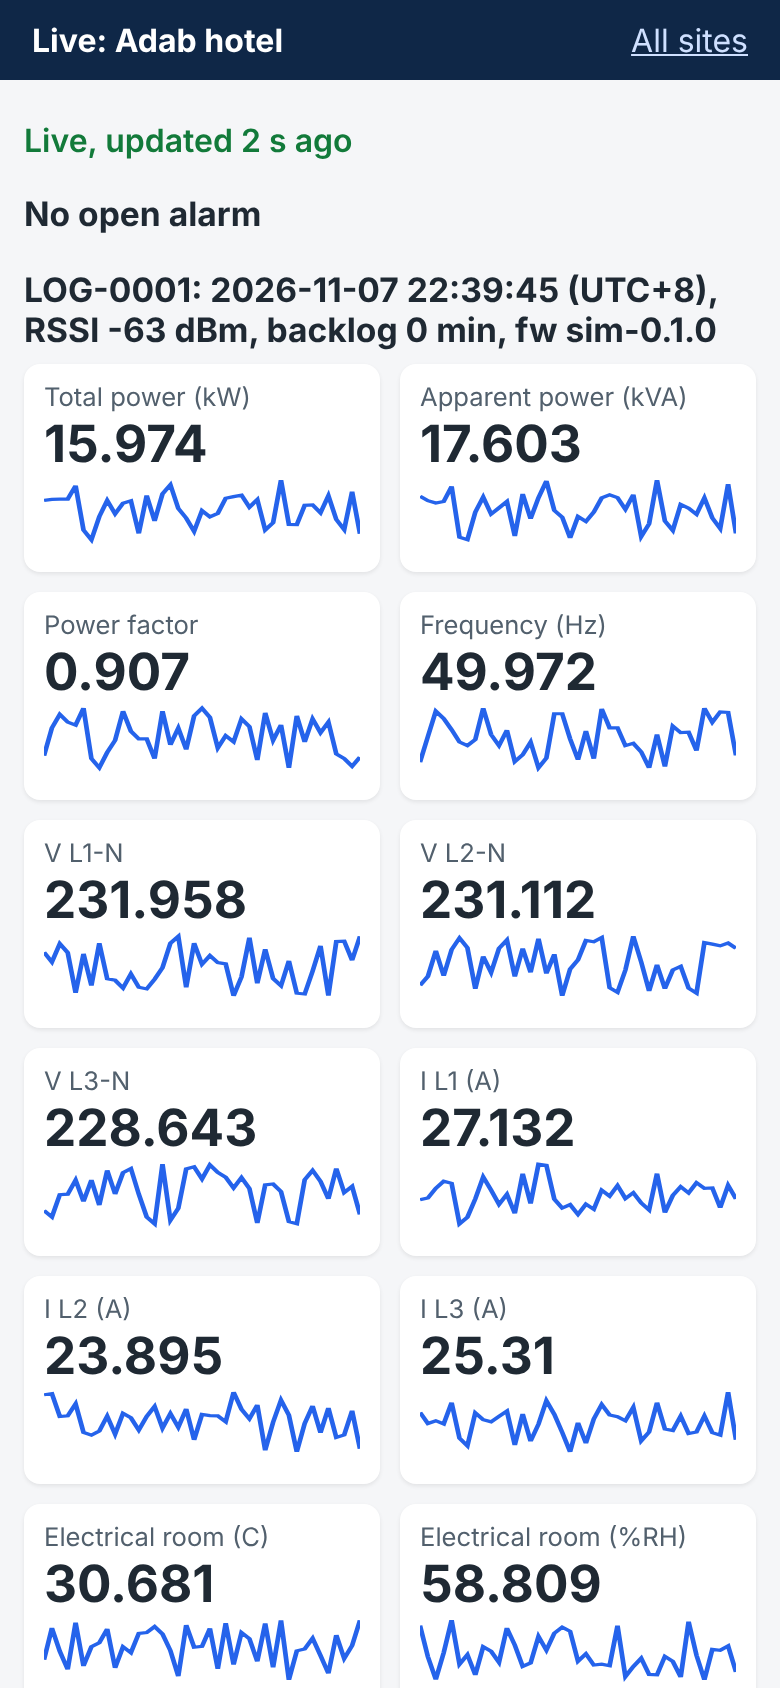
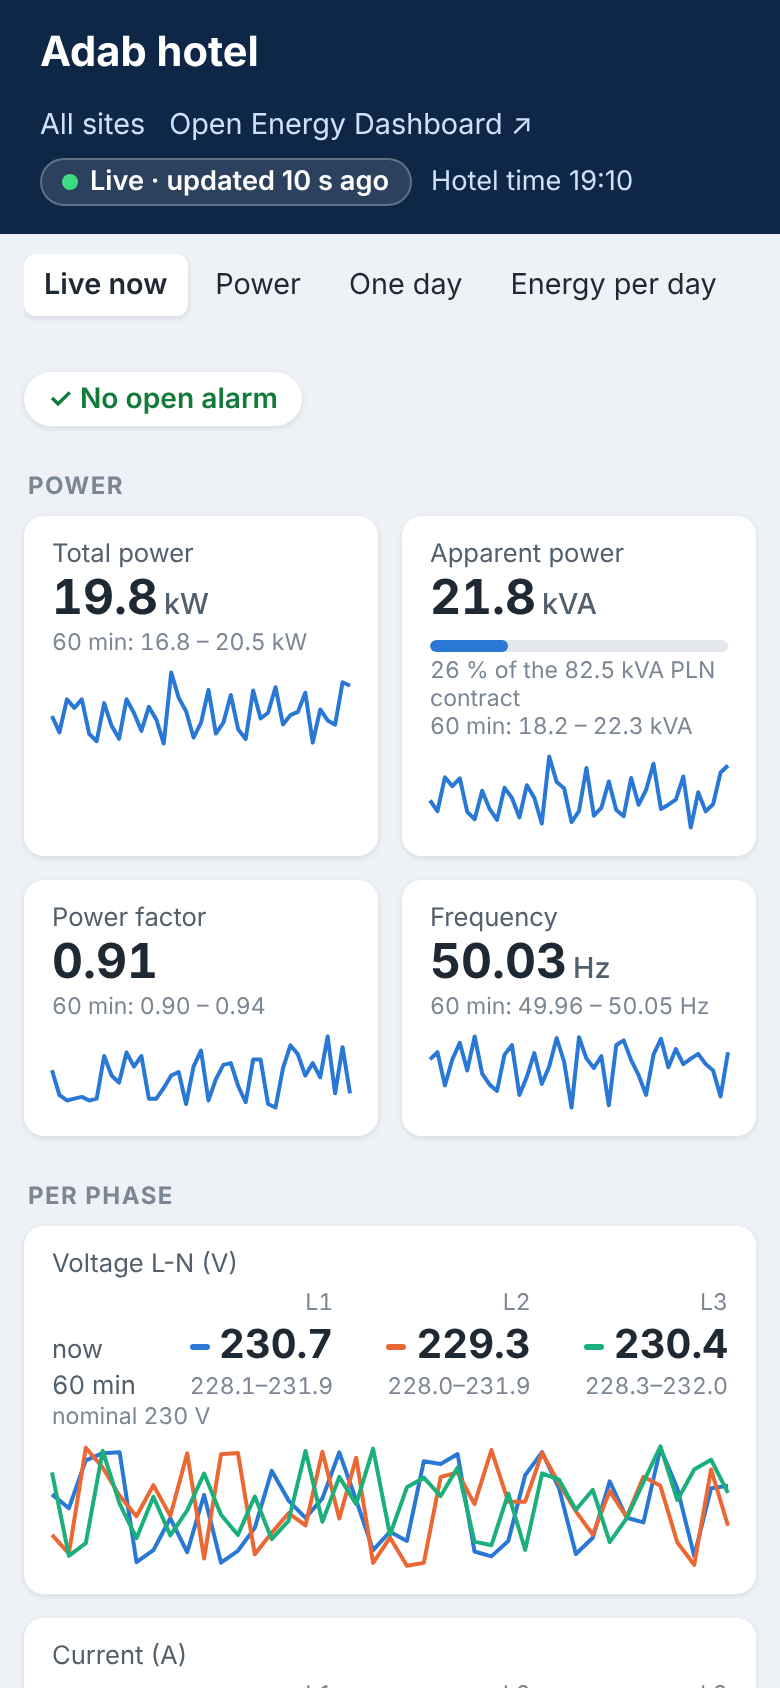
Dashboard mockup: screenshots of the built site page and its history pages
Claude-Session: https://claude.ai/code/session_01EskjDPiUNmX87ga9ESNCa4

diff --git a/docs/mockup/index.html b/docs/mockup/index.html
@@ -224,10 +224,25 @@ const S = [
      <code>site.json</code> and can change without code. Readable on a phone (right).
      <ul><li>The log here shows the simulated test events: a voltage dip on L2 (A26) with 6 minutes of undervoltage (A05) and the backlog warning while 14 days of records were uploaded (A16).</li>
      <li>Screenshot of the real page <code>server/app/live.html</code> served by the local ingest service, fed by the simulated logger.</li>
-     <li><b>Approved 8 November 2026 as the design of <code>/live/adab/</code></b>; the page now in <code>server/app/live.html</code> is shown here.
+     <li><b>Approved 8 November 2026 and built</b> in <code>server/app/live.html</code>, with a side menu for the history pages (next group).
        Only the time of the last push to OED is still missing (the push service is not written yet).</li></ul>`,
    html: () => `<div class="pair"><div><img class="shot" src="img/live-adab.png" alt="Live page of Adab hotel"></div>
      <div><div class="phone"><img src="img/live-adab-phone.png" alt="Live page on a phone"></div><div class="cap">Same page on a phone (390 px wide)</div></div></div>`},
+  {grp: 'Site page history (built)', id: 'site-power', name: 'Power', url: '/live/adab/#power',
+   note: `<b>Built 8 November 2026</b> in <code>server/app/live.html</code> (side menu of the site page), from the site's day files. kW, hour by hour, with the highest 15-second sample. 7, 14 or 31 days.`,
+   html: () => `<img class="shot" src="img/site-power.png" alt="Power">`},
+  {grp: 'Site page history (built)', id: 'site-day', name: 'One day', url: '/live/adab/#day',
+   note: `<b>Built 8 November 2026</b> in <code>server/app/live.html</code> (side menu of the site page), from the site's day files. The 1-minute power of one hotel day, with the day before and after.`,
+   html: () => `<img class="shot" src="img/site-day.png" alt="One day">`},
+  {grp: 'Site page history (built)', id: 'site-energy', name: 'Energy per day', url: '/live/adab/#energy',
+   note: `<b>Built 8 November 2026</b> in <code>server/app/live.html</code> (side menu of the site page), from the site's day files. kWh per hotel day from the meter counter; today and incomplete days lighter.`,
+   html: () => `<img class="shot" src="img/site-energy.png" alt="Energy per day">`},
+  {grp: 'Site page history (built)', id: 'site-week', name: 'This week vs last', url: '/live/adab/#week',
+   note: `<b>Built 8 November 2026</b> in <code>server/app/live.html</code> (side menu of the site page), from the site's day files. Complete hours of this week against the same hours last week. Here it says "not comparable": the simulated logger was off overnight, and the page says so instead of showing a false drop.`,
+   html: () => `<img class="shot" src="img/site-week.png" alt="This week vs last">`},
+  {grp: 'Site page history (built)', id: 'site-temperature', name: 'Temperature', url: '/live/adab/#temperature',
+   note: `<b>Built 8 November 2026</b> in <code>server/app/live.html</code> (side menu of the site page), from the site's day files. Hourly means, room and outdoor; hover for the lowest and highest of each hour. Humidity has the same page.`,
+   html: () => `<img class="shot" src="img/site-temperature.png" alt="Temperature">`},
   {grp: 'Open Energy Dashboard (history)', id: 'oed-kw', name: 'Power over two weeks', url: '/',
    note: `<b>Hotel load, kW, hour by hour.</b> OED line graph, group <code>adab</code>, unit kWh, rate Hour (kWh per hour = kW).
      Peak hourly mean ${kwMax.toFixed(1)} kW against the 82.5 kVA PLN contract. OED averages long periods; short peaks show after a zoom (next screen).`,

diff --git a/docs/mockup/template.html b/docs/mockup/template.html
@@ -224,10 +224,25 @@ const S = [
      <code>site.json</code> and can change without code. Readable on a phone (right).
      <ul><li>The log here shows the simulated test events: a voltage dip on L2 (A26) with 6 minutes of undervoltage (A05) and the backlog warning while 14 days of records were uploaded (A16).</li>
      <li>Screenshot of the real page <code>server/app/live.html</code> served by the local ingest service, fed by the simulated logger.</li>
-     <li><b>Approved 8 November 2026 as the design of <code>/live/adab/</code></b>; the page now in <code>server/app/live.html</code> is shown here.
+     <li><b>Approved 8 November 2026 and built</b> in <code>server/app/live.html</code>, with a side menu for the history pages (next group).
        Only the time of the last push to OED is still missing (the push service is not written yet).</li></ul>`,
    html: () => `<div class="pair"><div><img class="shot" src="img/live-adab.png" alt="Live page of Adab hotel"></div>
      <div><div class="phone"><img src="img/live-adab-phone.png" alt="Live page on a phone"></div><div class="cap">Same page on a phone (390 px wide)</div></div></div>`},
+  {grp: 'Site page history (built)', id: 'site-power', name: 'Power', url: '/live/adab/#power',
+   note: `<b>Built 8 November 2026</b> in <code>server/app/live.html</code> (side menu of the site page), from the site's day files. kW, hour by hour, with the highest 15-second sample. 7, 14 or 31 days.`,
+   html: () => `<img class="shot" src="img/site-power.png" alt="Power">`},
+  {grp: 'Site page history (built)', id: 'site-day', name: 'One day', url: '/live/adab/#day',
+   note: `<b>Built 8 November 2026</b> in <code>server/app/live.html</code> (side menu of the site page), from the site's day files. The 1-minute power of one hotel day, with the day before and after.`,
+   html: () => `<img class="shot" src="img/site-day.png" alt="One day">`},
+  {grp: 'Site page history (built)', id: 'site-energy', name: 'Energy per day', url: '/live/adab/#energy',
+   note: `<b>Built 8 November 2026</b> in <code>server/app/live.html</code> (side menu of the site page), from the site's day files. kWh per hotel day from the meter counter; today and incomplete days lighter.`,
+   html: () => `<img class="shot" src="img/site-energy.png" alt="Energy per day">`},
+  {grp: 'Site page history (built)', id: 'site-week', name: 'This week vs last', url: '/live/adab/#week',
+   note: `<b>Built 8 November 2026</b> in <code>server/app/live.html</code> (side menu of the site page), from the site's day files. Complete hours of this week against the same hours last week. Here it says "not comparable": the simulated logger was off overnight, and the page says so instead of showing a false drop.`,
+   html: () => `<img class="shot" src="img/site-week.png" alt="This week vs last">`},
+  {grp: 'Site page history (built)', id: 'site-temperature', name: 'Temperature', url: '/live/adab/#temperature',
+   note: `<b>Built 8 November 2026</b> in <code>server/app/live.html</code> (side menu of the site page), from the site's day files. Hourly means, room and outdoor; hover for the lowest and highest of each hour. Humidity has the same page.`,
+   html: () => `<img class="shot" src="img/site-temperature.png" alt="Temperature">`},
   {grp: 'Open Energy Dashboard (history)', id: 'oed-kw', name: 'Power over two weeks', url: '/',
    note: `<b>Hotel load, kW, hour by hour.</b> OED line graph, group <code>adab</code>, unit kWh, rate Hour (kWh per hour = kW).
      Peak hourly mean ${kwMax.toFixed(1)} kW against the 82.5 kVA PLN contract. OED averages long periods; short peaks show after a zoom (next screen).`,

diff --git a/docs/mockup/screenshots.js b/docs/mockup/screenshots.js
@@ -1,16 +1,20 @@
-// Screenshots of the live pages for the dashboard mockup (README.md in this folder).
+// Screenshots of the site pages for the dashboard mockup (README.md in this folder).
 //   node docs/mockup/screenshots.js http://127.0.0.1:8800 docs/mockup/img
 const {chromium} = require('playwright');
 const [base = 'http://127.0.0.1:8800', out = 'docs/mockup/img'] = process.argv.slice(2);
 (async () => {
   const b = await chromium.launch();
-  const desk = await b.newPage({viewport: {width: 1100, height: 800}, deviceScaleFactor: 2});
+  const desk = await b.newPage({viewport: {width: 1280, height: 800}, deviceScaleFactor: 2});
   await desk.goto(base + '/live/'); await desk.waitForSelector('table');
   await desk.screenshot({path: out + '/live-all.png'});
-  await desk.goto(base + '/live/adab/'); await desk.waitForSelector('.tile');
+  await desk.goto(base + '/live/adab/'); await desk.waitForSelector('.card');
   await desk.screenshot({path: out + '/live-adab.png', fullPage: true});
+  for (const v of ['power', 'day', 'energy', 'week', 'temperature']) {   // the history pages of the side menu
+    await desk.goto(base + '/live/adab/#' + v); await desk.waitForSelector('svg.chart, .cmp');
+    await desk.screenshot({path: `${out}/site-${v}.png`});
+  }
   const phone = await b.newPage({viewport: {width: 390, height: 844}, deviceScaleFactor: 2});
-  await phone.goto(base + '/live/adab/'); await phone.waitForSelector('.tile');
+  await phone.goto(base + '/live/adab/'); await phone.waitForSelector('.card');
   await phone.screenshot({path: out + '/live-adab-phone.png'});
   await b.close();
 })();

diff --git a/docs/mockup/README.md b/docs/mockup/README.md
@@ -7,6 +7,7 @@ Open **[`index.html`](index.html)** in a browser (it needs the `img/` folder bes
 |---|---|---|
 | Start page: all sites | `/live/` | Screenshot of the real page (`server/app/live.html`) |
 | Adab: live now (desktop and phone) | `/live/adab/` | Screenshot of the real page, fed every 15 s by the simulated logger |
+| Site page history (built) | `/live/adab/#power`, `#day`, `#energy`, `#week`, `#temperature` | Screenshots of the history pages of the side menu (approved design, built 8 November 2026) |
 | Power over two weeks | `/` (OED) | Line, group `adab`, unit kWh, rate Hour |
 | One day, minute by minute | `/` (OED) | Line zoomed on one day after Redraw |
 | Energy per day | `/` (OED) | Bar, interval Day |
